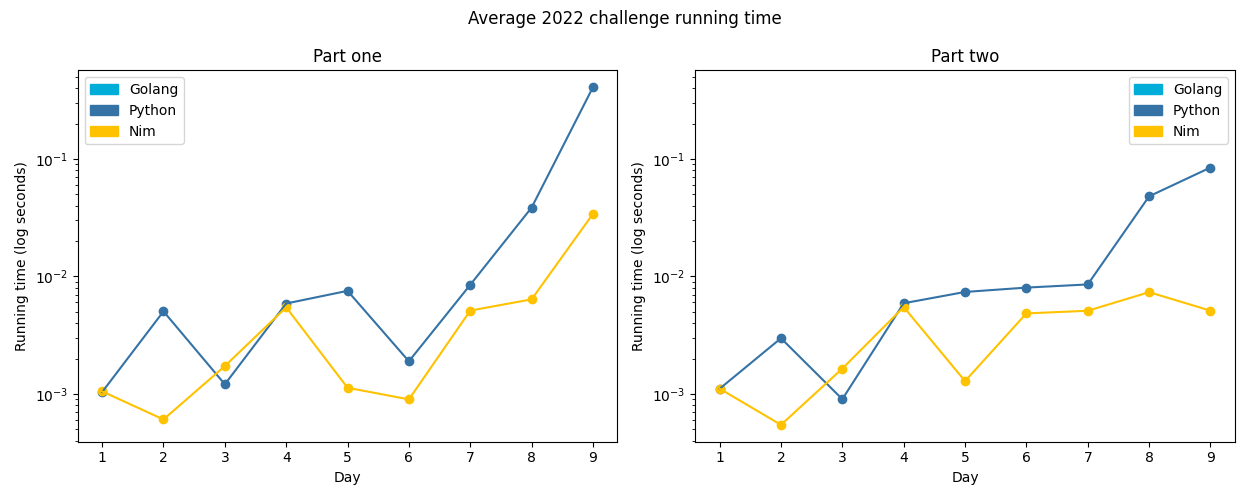
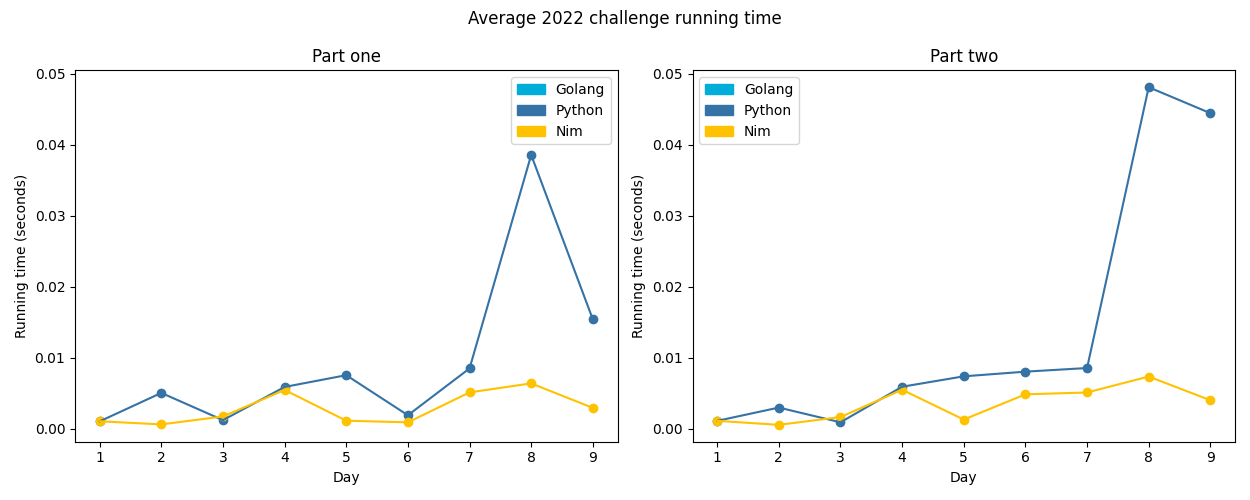
Optimise 2022-09

diff --git a/challenges/2022/09-ropeBridge/py/__init__.py b/challenges/2022/09-ropeBridge/py/__init__.py
@@ -66,7 +66,7 @@ def get_next_move_delta(
 
 
 def run_with_length(instructions: List[Instruction], length: int) -> int:
-    tail_visited: List[Vector] = [(0, 0)]
+    tail_visited: Dict[Vector, None] = {(0, 0): None}
 
     positions: List[Vector] = [(0, 0) for _ in range(length)]
 
@@ -86,7 +86,7 @@ def run_with_length(instructions: List[Instruction], length: int) -> int:
                 continue
 
             if positions[-1] not in tail_visited:
-                tail_visited.append(positions[-1])
+                tail_visited[positions[-1]] = None
 
     return len(tail_visited)
 
